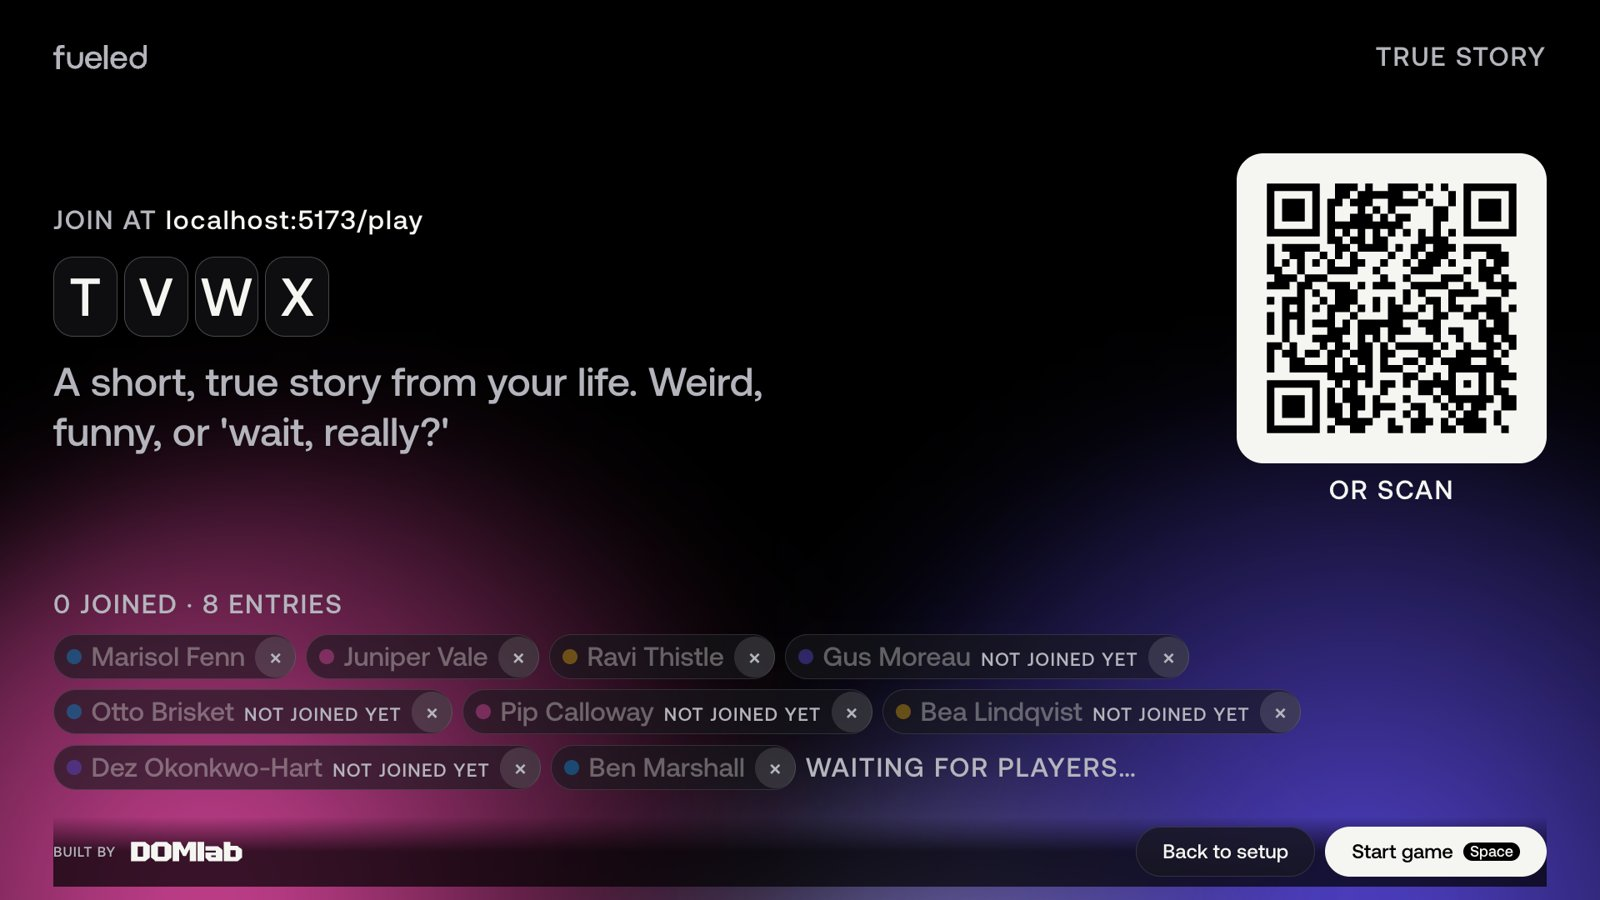
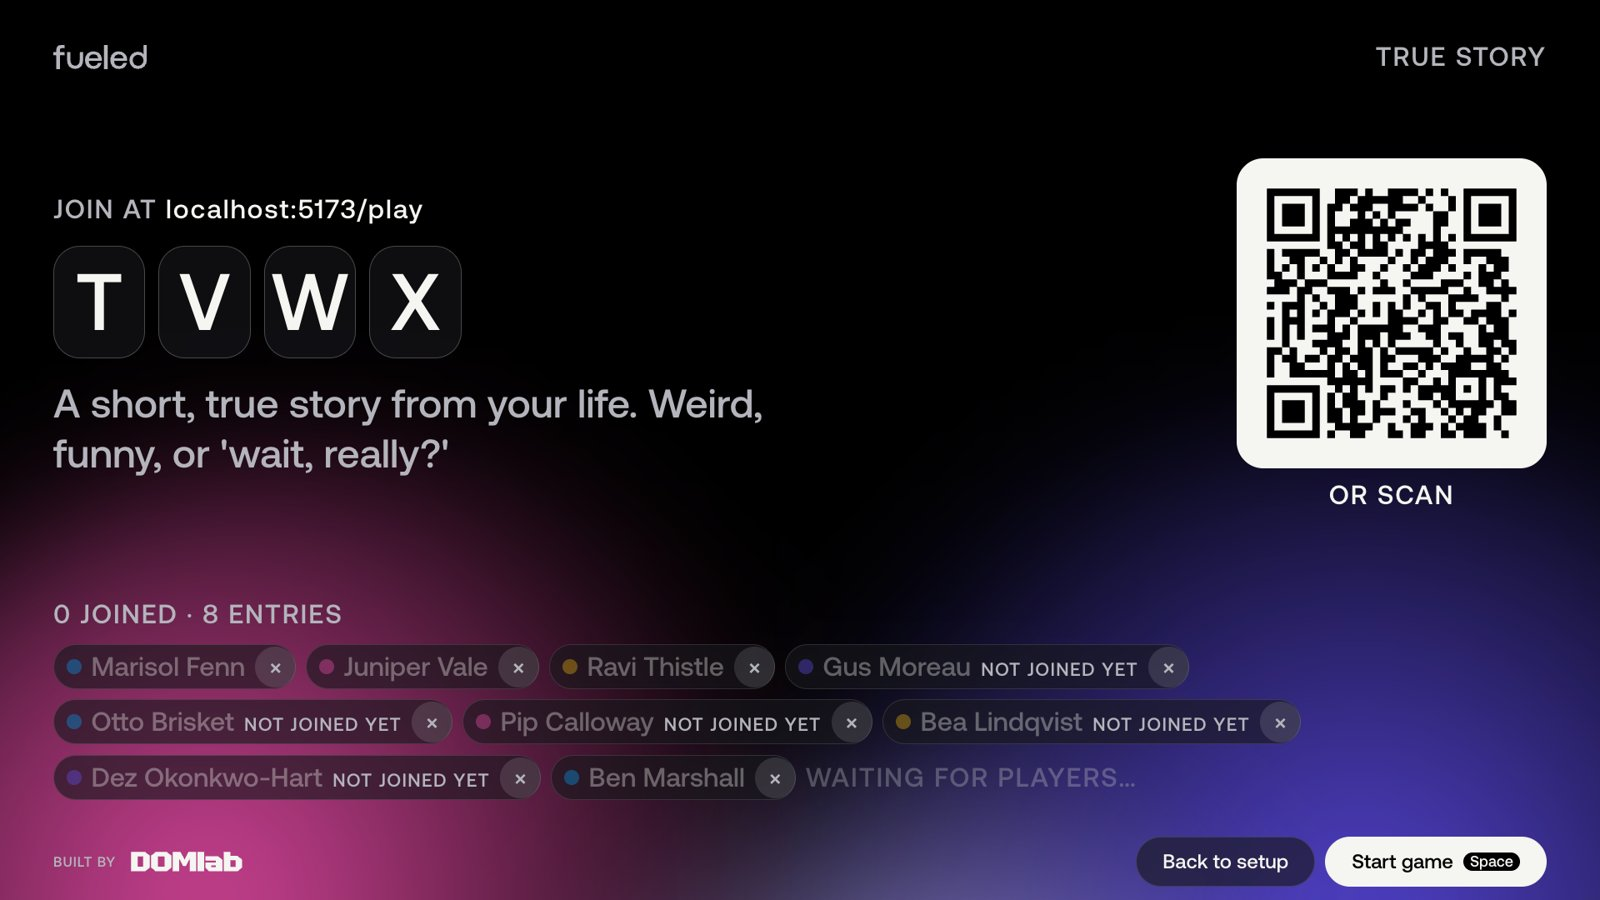
UI/UX audit polish: glow waiting orb, hero lobby code, rounded warnings, tally badges, menu motion, countdown pulse
Plus code placeholders from copy, gradient landing steps, brand selection
and scrollbars, hover/press feedback, breathing waiting text, and looping
animations that run once under reduced motion. Screenshots refreshed.

diff --git a/src/host/game/HostTally.module.css b/src/host/game/HostTally.module.css
@@ -22,15 +22,43 @@
   backdrop-filter: blur(var(--blur-glass));
   font-size: max(var(--font-size-phone-body), calc(var(--font-size-host-label) * var(--stage)));
   cursor: pointer;
+  box-shadow: inset 0 0 0 var(--border-width-hairline) var(--color-border);
 }
 
 .chip:has(input:checked) {
+  box-shadow: none;
   background: var(--color-highlight);
   color: var(--color-text-inverse);
 }
 
+.chip {
+  transition: background-color var(--duration-fast) var(--easing-standard);
+}
+
+/* A round check badge in place of the native square. */
 .chip input {
-  width: var(--space-5);
-  height: var(--space-5);
-  accent-color: var(--color-accent);
+  appearance: none;
+  flex: none;
+  display: grid;
+  place-items: center;
+  width: 1.1em;
+  height: 1.1em;
+  margin: 0;
+  border-radius: var(--radius-pill);
+  box-shadow: inset 0 0 0 var(--border-width-base) currentColor;
+  cursor: pointer;
+}
+
+.chip input:checked {
+  background: currentColor;
+}
+
+.chip input:checked::after {
+  content: '';
+  width: 0.28em;
+  height: 0.5em;
+  margin-top: -0.1em;
+  border: solid var(--color-highlight);
+  border-width: 0 0.12em 0.12em 0;
+  transform: rotate(45deg);
 }

diff --git a/src/player/components/Layout.module.css b/src/player/components/Layout.module.css
@@ -68,18 +68,20 @@
   letter-spacing: var(--font-letter-spacing-tight);
 }
 
+/* "Waiting on others": a small glow orb that breathes. */
 .pulse {
+  width: var(--space-7);
+  height: var(--space-7);
   border-radius: var(--radius-pill);
-  width: var(--space-8);
-  height: var(--space-8);
-  background: var(--color-highlight);
-  animation: pulse var(--duration-entrance) var(--easing-standard) infinite alternate;
+  background: var(--gradient-glow);
+  box-shadow: 0 0 var(--space-6) color-mix(in srgb, var(--color-fueled-solar) 55%, transparent);
+  animation: breathe calc(var(--duration-entrance) * 2) var(--easing-standard) infinite alternate;
 }
 
-@keyframes pulse {
-  to {
-    opacity: var(--opacity-dim);
-    transform: scale(0.8);
+@keyframes breathe {
+  from {
+    transform: scale(0.82);
+    box-shadow: 0 0 var(--space-3) color-mix(in srgb, var(--color-fueled-nebula) 40%, transparent);
   }
 }
 

diff --git a/src/ui/styles/base.css b/src/ui/styles/base.css
@@ -56,6 +56,17 @@ a {
   color: inherit;
 }
 
+::selection {
+  background: var(--color-accent);
+  color: var(--color-text);
+}
+
+/* Thin, dark scrollbars for the few scrolling areas (setup, long rosters, the finale on small windows). */
+* {
+  scrollbar-width: thin;
+  scrollbar-color: var(--color-border-strong) transparent;
+}
+
 :focus-visible {
   outline: var(--border-width-strong) solid var(--color-highlight);
   outline-offset: var(--border-width-strong);
@@ -177,6 +188,8 @@ label:has(> input:focus-visible) {
   *::before,
   *::after {
     animation-duration: 1ms !important;
+    /* Looping effects (breathing orb, countdown tick) would flicker at 1ms: run once and stop. */
+    animation-iteration-count: 1 !important;
     transition-duration: 1ms !important;
   }
 }

diff --git a/src/landing/Landing.tsx b/src/landing/Landing.tsx
@@ -60,7 +60,7 @@ export default function Landing() {
               autoCapitalize="characters"
               autoComplete="off"
               spellCheck={false}
-              placeholder="K7QF"
+              placeholder={UI_COPY.codePlaceholder}
             />
             <Button type="submit" disabled={code.length !== ROOM_CODE_LENGTH}>
               {UI_COPY.play.go}
@@ -79,7 +79,7 @@ export default function Landing() {
       <ol className={styles.how}>
         {L.how.map((step, i) => (
           <li key={step} className={styles.step}>
-            <span className={styles.stepNum} aria-hidden="true">
+            <span className={`text-glow ${styles.stepNum}`} aria-hidden="true">
               {i + 1}
             </span>
             {step}

diff --git a/src/ui/components/CodeChip.module.css b/src/ui/components/CodeChip.module.css
@@ -27,3 +27,14 @@
   font-size: calc(var(--font-size-host-title) * var(--stage));
   border-radius: calc(var(--radius-tile) * 1.5 * var(--stage));
 }
+
+.hero {
+  gap: max(var(--space-2), calc(var(--space-4) * var(--stage)));
+}
+
+.hero .tile {
+  width: max(calc(var(--size-tap-target) * 1.1), calc(var(--font-size-host-display) * 1.15 * var(--stage)));
+  height: max(calc(var(--size-tap-target) * 1.3), calc(var(--font-size-host-display) * 1.4 * var(--stage)));
+  font-size: max(var(--font-size-phone-title), calc(var(--font-size-host-display) * var(--stage)));
+  border-radius: max(var(--radius-tile), calc(var(--radius-card) * var(--stage)));
+}

diff --git a/src/ui/components/CodeChip.tsx b/src/ui/components/CodeChip.tsx
@@ -1,8 +1,8 @@
 import { UI_COPY } from '../copy';
 import styles from './CodeChip.module.css';
 
-/** Room code, one rounded tile per character. */
-export function CodeChip({ code, size = 'phone' }: { code: string; size?: 'host' | 'phone' }) {
+/** Room code, one rounded tile per character. `hero` is the lobby's headline code. */
+export function CodeChip({ code, size = 'phone' }: { code: string; size?: 'host' | 'phone' | 'hero' }) {
   return (
     <span className={`${styles.code} ${styles[size]}`} role="img" aria-label={`${UI_COPY.roomCode} ${code.split('').join(' ')}`}>
       {code.split('').map((ch, i) => (

diff --git a/src/host/setup/PackPicker.module.css b/src/host/setup/PackPicker.module.css
@@ -14,11 +14,18 @@
   -webkit-backdrop-filter: blur(var(--blur-glass));
   backdrop-filter: blur(var(--blur-glass));
   cursor: pointer;
-  transition: background-color var(--duration-fast) var(--easing-standard);
+  transition:
+    background-color var(--duration-fast) var(--easing-standard),
+    transform var(--duration-fast) var(--easing-standard);
 }
 
 .pack:hover {
   background: var(--color-border);
+  transform: translateY(calc(var(--space-1) * -1));
+}
+
+.pack:active {
+  transform: scale(0.98);
 }
 
 .pack:has(input:checked) {

diff --git a/src/host/game/HostMenu.module.css b/src/host/game/HostMenu.module.css
@@ -14,11 +14,20 @@
 
 .menu[open] {
   display: grid;
+  animation: menu-in var(--duration-base) var(--easing-emphasized);
 }
 
 .menu::backdrop {
-  background: var(--color-bg);
-  opacity: var(--opacity-muted);
+  background: color-mix(in srgb, var(--color-bg) 60%, transparent);
+  -webkit-backdrop-filter: blur(var(--blur-glass));
+  backdrop-filter: blur(var(--blur-glass));
+}
+
+@keyframes menu-in {
+  from {
+    opacity: 0;
+    transform: scale(0.96) translateY(var(--space-3));
+  }
 }
 
 .menu button {

diff --git a/src/player/screens/JoinScreen.module.css b/src/player/screens/JoinScreen.module.css
@@ -19,10 +19,18 @@
   font-size: var(--font-size-phone-body);
   text-align: left;
   cursor: pointer;
+  transition:
+    background-color var(--duration-fast) var(--easing-standard),
+    transform var(--duration-fast) var(--easing-standard);
+  box-shadow: inset 0 0 0 var(--border-width-hairline) var(--color-border);
 }
 
 .claim:hover {
   background: var(--color-border);
+}
+
+.claim:active {
+  transform: scale(0.97);
 }
 
 /* Reserve the line so the button doesn't jump when an error appears. */

diff --git a/src/host/lobby/JoinPanel.tsx b/src/host/lobby/JoinPanel.tsx
@@ -17,7 +17,7 @@ export function JoinPanel({ code, prompt, status }: { code: string; prompt: stri
         <h1 tabIndex={-1} className={`t-label ${styles.joinAt}`}>
           {L.joinAt} <span className={styles.url}>{shown}</span>
         </h1>
-        <CodeChip code={code} size="host" />
+        <CodeChip code={code} size="hero" />
         <p className={`t-body ${styles.prompt}`}>{prompt}</p>
         {status}
       </div>

diff --git a/src/player/components/RoundStatus.module.css b/src/player/components/RoundStatus.module.css
@@ -6,6 +6,7 @@
 }
 
 .number {
+  display: inline-block;
   font-size: var(--font-size-phone-display);
   line-height: 1;
   font-variant-numeric: tabular-nums;
@@ -13,6 +14,13 @@
 
 .urgent .number {
   color: var(--color-fueled-nova);
+  animation: tick var(--duration-slow) var(--easing-standard) infinite alternate;
+}
+
+@keyframes tick {
+  to {
+    transform: scale(1.08);
+  }
 }
 
 @media (min-width: 960px) {

diff --git a/src/player/screens/CodeScreen.tsx b/src/player/screens/CodeScreen.tsx
@@ -37,6 +37,7 @@ export function CodeScreen({ onSubmit }: { onSubmit: (code: string) => void }) {
           inputMode="text"
           enterKeyHint="go"
           aria-describedby={ids.hint}
+          placeholder={UI_COPY.codePlaceholder}
           autoFocus
         />
         <span id={ids.hint} className="text-hint">
